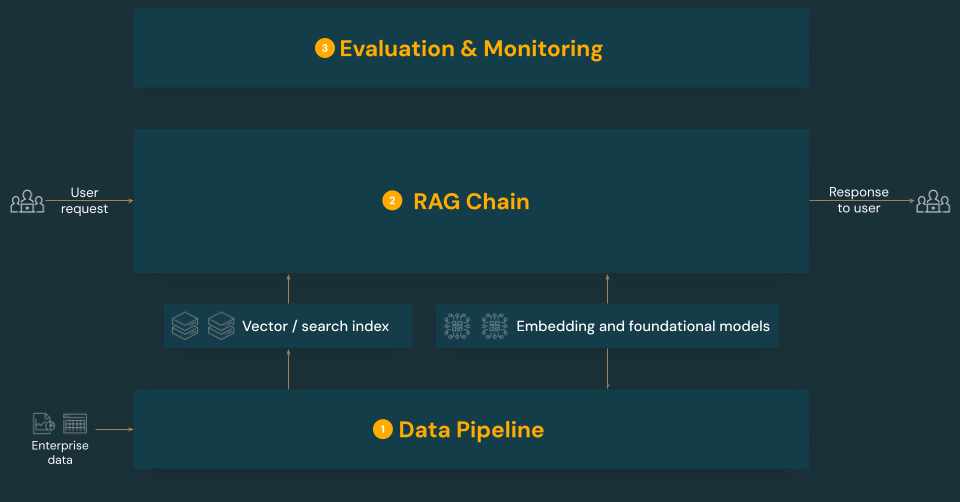
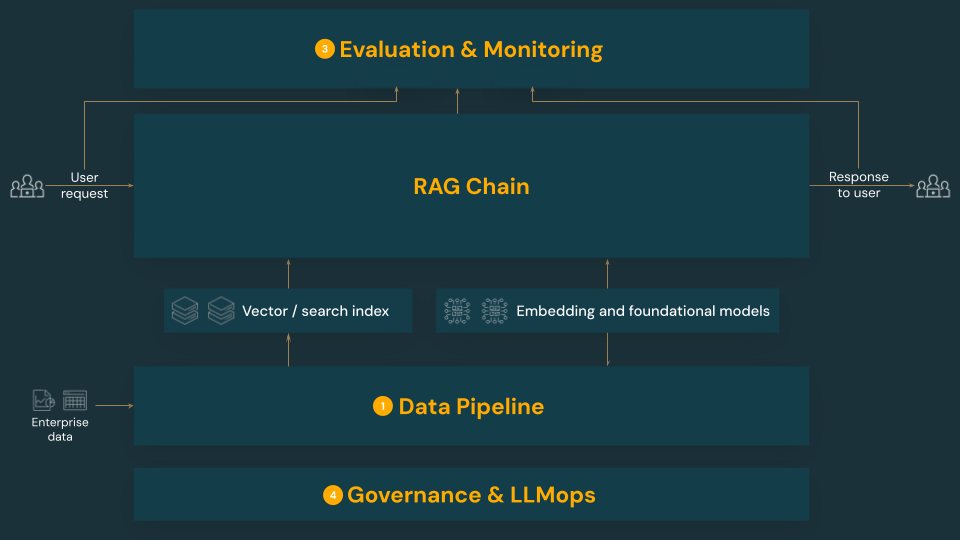
eric section 1 and 2

diff --git a/genai_cookbook/nbs/2-fundamentals-unstructured.md b/genai_cookbook/nbs/2-fundamentals-unstructured.md
@@ -1,93 +1,20 @@
-# Section 2: Fundamentals of RAG over unstructured documents
+# **Section 2:** Fundamentals of RAG over unstructured documents
 
 In [section 1](1-introduction-to-rag) of this guide, we introduced RAG, explained its functionality at a high level, and highlighted its advantages over standalone LLMs.
 
 This section will introduce the key components and principles behind developing RAG applications over unstructured data. In particular, we will discuss:
 
-1. **[Data pipeline](#data-pipeline):** Transforming unstructured documents, such as collections of PDFs, into a format suitable for retrieval using the RAG application's **data pipeline**.
-2. [**Retrieval, Augmentation, and Generation (RAG chain)**](#retrieval-augmentation-and-generation-rag-chain): A series (or **chain**) of steps is called to:
+1. **[Data pipeline](./2-fundamentals-unstructured-data-pipeline):** Transforming unstructured documents, such as collections of PDFs, into a format suitable for retrieval using the RAG application's **data pipeline**.
+2. [**Retrieval, Augmentation, and Generation (RAG chain)**](./2-fundamentals-unstructured-rag): A series (or **chain**) of steps is called to:
     1. Understand the user's question
     2. Retrieve the supporting data
     3. Call an LLM to generate a response based on the user's question and supporting data
-3. [**Evaluation**](#evaluation-monitoring): Assessing the RAG application to determine its quality/cost/latency to ensure it meets your business requirements
+3. [**Evaluation**](./2-fundamentals-unstructured-eval): Assessing the RAG application to determine its quality/cost/latency to ensure it meets your business requirements
+4. [**Governance & LLMOps**](./2-fundamentals-unstructured-llmops): Tracking and managing the lifecycle of each component, including data lineage and governance (access controls).
 
 ```{image} ../images/2-fundamentals-unstructured/1_img.png
 :alt: Major components of RAG over unstructured data
 :align: center
 ```
-
-## Data pipeline
-
-Throughout this guide we will focus on preparing unstructured data for use in RAG applications. *Unstructured* data refers to data without a specific structure or organization, such as PDF documents that might include text and images, or multimedia content such as audio or videos.
-
-Unstructured data lacks a predefined data model or schema, making it impossible to query on the basis of structure and metadata alone. As a result, unstructured data requires techniques that can understand and extract semantic meaning from raw text, images, audio, or other content.
-
-During data preparation, the RAG application's data pipeline takes raw unstructured data and transforms it into discrete chunks that can be queried based on their relevance to a user's query. The key steps in data preprocessing are outlined below. Each step has a variety of knobs that can be tuned - for a deeper dive discussion on these knobs, please refer to the [deep dive into RAG section.](/nbs/3-deep-dive)
-
-In the remainder of this section, we describe the process of preparing unstructured data for retrieval using *semantic search*. Semantic search understands the contextual meaning and intent of a user query to provide more relevant search results.
-
-Semantic search is one of several approaches that can be taken when implementing the retrieval component of a RAG application over unstructured data. We cover alternate retrieval strategies in the [retrieval deep dive section](/nbs/3-deep-dive).
-
-```{image} ../images/2-fundamentals-unstructured/2_img.png
-:align: center
-```
-
-The following are the typical steps of a data pipeline in a RAG application using unstructured data:
-
-1. **Parse the raw documents:** The initial step involves transforming raw data into a usable format. This can include extracting text, tables, and images from a collection of PDFs or employing optical character recognition (OCR) techniques to extract text from images.
-
-2. **Extract document metadata (optional):** In some cases, extracting and using document metadata, such as document titles, page numbers, URLs, or other information can help the retrieval step more precisely query the correct data.
-
-3. **Chunk documents:** To ensure the parsed documents can fit into the embedding model and the LLM's context window, we break the parsed documents into smaller, discrete chunks. Retrieving these focused chunks, rather than entire documents, gives the LLM more targeted content from which to generate its responses.
-
-4. **Embedding chunks:** In a RAG application that uses semantic search, a special type of language model called an *embedding model* transforms each of the chunks from the previous step into numeric vectors, or lists of numbers, that encapsulate the meaning of each piece of content. Crucially, these vectors represent the semantic meaning of the text, not just surface-level keywords. This will later enable searching based on meaning rather than literal text matches.
-
-5. **Index chunks in a vector database:** The final step is to load the vector representations of the chunks, along with the chunk's text, into a *vector database*. A vector database is a specialized type of database designed to efficiently store and search for vector data like embeddings. To maintain performance with a large number of chunks, vector databases commonly include a vector index that uses various algorithms to organize and map the vector embeddings in a way that optimizes search efficiency. At query time, a user's request is embedded into a vector, and the database leverages the vector index to find the most similar chunk vectors, returning the corresponding original text chunks.
-
-The process of computing similarity can be computationally expensive. Vector indexes, such as [Databricks Vector Search](https://docs.databricks.com/en/generative-ai/vector-search.html), speed this process up by providing a mechanism for efﬁciently organizing and navigating embeddings, often via sophisticated approximation methods. This enables rapid ranking of the most relevant results without comparing each embedding to the user's query individually.
-
-Each step in the data pipeline involves engineering decisions that impact the RAG application's quality. For example, choosing the right chunk size in step (3) ensures the LLM receives specific yet contextualized information, while selecting an appropriate embedding model in step (4) determines the accuracy of the chunks returned during retrieval.
-
-This data preparation process is referred to as *offline* data preparation, as it occurs before the system answers queries, unlike the *online* steps triggered when a user submits a query.
-
-## Retrieval, augmentation, and generation (RAG Chain)
-
-Once the data has been processed by the data pipeline, it is suitable for use in the RAG application. This section describes the process that occurs once the user submits a request to the RAG application in an online setting. The series, or *chain* of steps that are invoked at inference time is commonly referred to as the RAG chain.
-
-```{image} ../images/2-fundamentals-unstructured/3_img.png
-:align: center
-```
-
-1. **(Optional) User query preprocessing:** In some cases, the user's query is preprocessed to make it more suitable for querying the vector database. This can involve formatting the query within a template, using another model to rewrite the request, or extracting keywords to aid retrieval. The output of this step is a *retrieval query* which will be used in the subsequent retrieval step.
-
-2. **Retrieval:** To retrieve supporting information from the vector database, the retrieval query is translated into an embedding using *the same embedding model* that was used to embed the document chunks during data preparation. These embeddings enable comparison of the semantic similarity between the retrieval query and the unstructured text chunks, using measures like cosine similarity. Next, chunks are retrieved from the vector database and ranked based on how similar they are to the embedded request. The top (most similar) results are returned.
-
-3. **Prompt augmentation:** The prompt that will be sent to the LLM is formed by augmenting the user's query with the retrieved context, in a template that instructs the model how to use each component, often with additional instructions to control the response format. The process of iterating on the right prompt template to use is referred to as [prompt engineering](https://en.wikipedia.org/wiki/Prompt_engineering).
-
-4. **LLM Generation**: The LLM takes the augmented prompt, which includes the user's query and retrieved supporting data, as input. It then generates a response that is grounded on the additional context.
-
-5. **(Optional) Post-processing:** The LLM's response may be processed further to apply additional business logic, add citations, or otherwise refine the generated text based on predefined rules or constraints.
-
-As with the RAG application data pipeline, there are numerous consequential engineering decisions that can affect the quality of the RAG chain. For example, determining how many chunks to retrieve in (2) and how to combine them with the user's query in (3) can both significantly impact the model's ability to generate quality responses.
-
-Throughout the chain, various guardrails may be applied to ensure compliance with enterprise policies. This might involve filtering for appropriate requests, checking user permissions before accessing data sources, and applying content moderation techniques to the generated responses.
-
-## Evaluation & monitoring
-
-Evaluation and monitoring are critical components to understand if your RAG application is performing to the quality, cost, and latency requirements dictated by your use case. Evaluation happens during development and monitoring happens once the application is deployed to production.
-
-RAG over unstructured data is a complex system with many components that impact the application's quality. Adjusting any single element can have cascading effects on the others. For instance, data formatting changes can influence the retrieved chunks and the LLM's ability to generate relevant responses. Therefore, it's crucial to evaluate each of the application's components in addition to the application as a whole in order to iteratively refine it based on those assessments.
-
-Evaluation and monitoring the quality, cost and latency requires several components:
-
-- **Defining quality with metrics**: You can't manage what you don't measure. In order to improve RAG quality, it is essential to define what quality means for your use case. Depending on the application, important metrics might include response accuracy, latency, cost, or ratings from key stakeholders.
-
-- **Building an effective evaluation set:** To rigorously evaluate your RAG application, you need a curated set of evaluation queries (and ideally outputs) that are representative of the application's intended use. These evaluation examples should be challenging, diverse, and updated to reflect changing usage and requirements.
-
-- **Monitoring application usage:** Instrumentation that tracks inputs, outputs, and intermediate steps such as document retrieval enables ongoing monitoring and early detection and diagnosis of issues that arise in development and production.
-
-- **Collecting stakeholder feedback:** As a developer, you may not be a domain expert in the content of the application you are developing. In order to collect feedback from human experts who can assess your application quality, you need an interface that allows them to interact with the application and provide detailed feedback.
-
-We will cover evaluation in much more detail in [Section 4: Evaluation](/nbs/4-evaluation).
 
 The [next section](/nbs/3-deep-dive) of this guide will unpack the finer details of the typical components that make up the data pipeline and RAG chain of a RAG application using unstructured data.

diff --git a/genai_cookbook/nbs/2-fundamentals-unstructured-eval.md b/genai_cookbook/nbs/2-fundamentals-unstructured-eval.md
@@ -1,0 +1,33 @@
+## Evaluation & monitoring
+
+Evaluation and monitoring are critical components to understand if your RAG application is performing to the *quality*, *cost*, and *latency* requirements dictated by your use case.  Technically, **evaluation** happens during development and **monitoring** happens once the application is deployed to production, but the fundamental components are similar.
+
+RAG over unstructured data is a complex system with many components that impact the application's quality. Adjusting any single element can have cascading effects on the others. For instance, data formatting changes can influence the retrieved chunks and the LLM's ability to generate relevant responses. Therefore, it's crucial to evaluate each of the application's components in addition to the application as a whole in order to iteratively refine it based on those assessments.
+
+Evaluation and monitoring of Generative AI applications, including RAG, differs from classical machine learning in several ways:
+  
+|  | Classical ML | Generative AI | 
+|---------|---------|---------|
+| **Metrics** | Metrics evaluate the __inputs & outputs__ of the component e.g., feature drift, precision/recall, latency, etc <br/><br/> Since there is only one component, overall metrics == component metrics. | __Component metrics__ evaluate the __inputs & outputs__ of each component e.g., precision @ K, nDCG, latency, toxicity, etc <br/><br/>__Compound metrics__ evaluate how multiple components interact e.g., faithfulness measures the generator’s adherence to the knowledge from a retriever which requires the chain input, chain output, and output of the internal retriever<br/><br/>__Overall metrics__ evaluate the overall input & output of the system e.g., answer correctness, latency |
+| **Evaluation** | Answer is __deterministically__ “right” or “wrong” <br/><br/> → __Deterministic metrics__ work | Answer is “right” or “wrong” but: <br/><ul><li>Many right answers (non deterministic)</li><li>Some right answers are more right</li></ul><br/>→ Need __human feedback__ to be confident<br/>→ Need __LLM-judged metrics__ to scale evaluation<br/> |
+
+```{image} ../images/2-fundamentals-unstructured/4_img.png
+:align: center
+```
+<br/>
+
+Effectively evaluating and monitoring application quality, cost and latency requires several components:
+
+- **Evaluation set:** To rigorously evaluate your RAG application, you need a curated set of evaluation queries (and ideally outputs) that are representative of the application's intended use. These evaluation examples should be challenging, diverse, and updated to reflect changing usage and requirements.
+
+- **Metric definitions**: You can't manage what you don't measure. In order to improve RAG quality, it is essential to define what quality means for your use case. Depending on the application, important metrics might include response accuracy, latency, cost, or ratings from key stakeholders.  You'll need metrics that measure each component, how the components interact with each other, and the overall system.
+
+- **LLM judges**: Given the open ended nature of LLM responses, it is not feasible to read every single response each time you evaluate to determine if the output is correct.  Using an additional, different LLM to review outputs can help scale your evaluation and compute additional metrics such as the groundedness of a response to 1,000s of tokens of context, that would be infeasible for human raters to effectively asses at scale.
+
+- **Evaluation harness**: During development, an evaluation harness helps you quickly execute your application for every record in your *evaluation set* and then run each output through your LLM judges and metric computations.  This is particularly challenging since this step "blocks" your inner dev loop, so speed is of the utmost importance.  A good evaluation harness will parallelize this work as much as possible, often spinning up additional infrastructure such as more LLM capacity to do so.
+
+- **Stakeholder-facing UI:** As a developer, you may not be a domain expert in the content of the application you are developing. In order to collect feedback from human experts who can assess your application quality, you need an interface that allows them to interact with the application and provide detailed feedback.
+
+- **Production trace logging:** Once in production, you'll need to evaluate a significantly higher quantity of requests/responses in addition to how each response was generated.  For example, you will need to  know if the root cause of a low quality answer is due to the retrieval step or a hallucination. Your production logging must track the inputs, outputs, and intermediate steps such as document retrieval to enable ongoing monitoring and early detection and diagnosis of issues that arise in production.
+
+We will cover evaluation in much more detail in [Section 4: Evaluation](/nbs/4-evaluation).

diff --git a/genai_cookbook/nbs/2-fundamentals-unstructured-data-pipeline.md b/genai_cookbook/nbs/2-fundamentals-unstructured-data-pipeline.md
@@ -1,0 +1,34 @@
+## Data pipeline
+
+Throughout this guide we will focus on preparing unstructured data for use in RAG applications. *Unstructured* data refers to data without a specific structure or organization, such as PDF documents that might include text and images, or multimedia content such as audio or videos.
+
+Unstructured data lacks a predefined data model or schema, making it impossible to query on the basis of structure and metadata alone. As a result, unstructured data requires techniques that can understand and extract semantic meaning from raw text, images, audio, or other content.
+
+During data preparation, the RAG application's data pipeline takes raw unstructured data and transforms it into discrete chunks that can be queried based on their relevance to a user's query. The key steps in data preprocessing are outlined below. Each step has a variety of knobs that can be tuned - for a deeper dive discussion on these knobs, please refer to the [deep dive into RAG section.](/nbs/3-deep-dive)
+
+In the remainder of this section, we describe the process of preparing unstructured data for retrieval using *semantic search*. Semantic search understands the contextual meaning and intent of a user query to provide more relevant search results.
+
+Semantic search is one of several approaches that can be taken when implementing the retrieval component of a RAG application over unstructured data. We cover alternate retrieval strategies in the [retrieval deep dive section](/nbs/3-deep-dive).
+
+```{image} ../images/2-fundamentals-unstructured/2_img.png
+:align: center
+```
+
+<br/>
+The following are the typical steps of a data pipeline in a RAG application using unstructured data:
+
+1. **Parse the raw documents:** The initial step involves transforming raw data into a usable format. This can include extracting text, tables, and images from a collection of PDFs or employing optical character recognition (OCR) techniques to extract text from images.
+
+2. **Extract document metadata (optional):** In some cases, extracting and using document metadata, such as document titles, page numbers, URLs, or other information can help the retrieval step more precisely query the correct data.
+
+3. **Chunk documents:** To ensure the parsed documents can fit into the embedding model and the LLM's context window, we break the parsed documents into smaller, discrete chunks. Retrieving these focused chunks, rather than entire documents, gives the LLM more targeted content from which to generate its responses.
+
+4. **Embedding chunks:** In a RAG application that uses semantic search, a special type of language model called an *embedding model* transforms each of the chunks from the previous step into numeric vectors, or lists of numbers, that encapsulate the meaning of each piece of content. Crucially, these vectors represent the semantic meaning of the text, not just surface-level keywords. This will later enable searching based on meaning rather than literal text matches.
+
+5. **Index chunks in a vector database:** The final step is to load the vector representations of the chunks, along with the chunk's text, into a *vector database*. A vector database is a specialized type of database designed to efficiently store and search for vector data like embeddings. To maintain performance with a large number of chunks, vector databases commonly include a vector index that uses various algorithms to organize and map the vector embeddings in a way that optimizes search efficiency. At query time, a user's request is embedded into a vector, and the database leverages the vector index to find the most similar chunk vectors, returning the corresponding original text chunks.
+
+The process of computing similarity can be computationally expensive. Vector indexes, such as [Databricks Vector Search](https://docs.databricks.com/en/generative-ai/vector-search.html), speed this process up by providing a mechanism for efﬁciently organizing and navigating embeddings, often via sophisticated approximation methods. This enables rapid ranking of the most relevant results without comparing each embedding to the user's query individually.
+
+Each step in the data pipeline involves engineering decisions that impact the RAG application's quality. For example, choosing the right chunk size in step (3) ensures the LLM receives specific yet contextualized information, while selecting an appropriate embedding model in step (4) determines the accuracy of the chunks returned during retrieval.
+
+This data preparation process is referred to as *offline* data preparation, as it occurs before the system answers queries, unlike the *online* steps triggered when a user submits a query.

diff --git a/genai_cookbook/nbs/3-deep-dive.md b/genai_cookbook/nbs/3-deep-dive.md
@@ -1,4 +1,4 @@
-# Section 3: Deep dive into RAG over unstructured documents
+# **Section 3:** Deep dive into RAG over unstructured documents
 
 In the previous section, we introduced the key components of a RAG application and discussed the fundamental principles behind developing RAG applications over unstructured data. This section discusses how you can think about refining each component in order to increase the quality of your application.
 
@@ -199,10 +199,9 @@ The following table contrasts each of these retrieval strategies against one ano
 | | Semantic search | Keyword search | Hybrid search |
 |---|---|---|---|
 | **Simple explanation** | If the same **concepts** appear in the query and a potential document, they are relevant. | If the same **words** appear in the query and a potential document, they are relevant. The **more words** from the query in the document, the more relevant that document is. | Runs BOTH a semantic search and keyword search, then combines the results. |
-| **Example** | If the user searches for "RAG", a document referring to "retrieval-augmented generation" would be returned even if the document does NOT have the words "RAG" in it. | If the user searches for "RAG", a document referring to "retrieval-augmented generation" would be NOT returned UNLESS the document HAS the words "RAG" in it. | Both documents would be returned. |
+| **Example use case** | Customer support where user queries are different than the words in the product manuals<br><br>e.g., *"how do i turn my phone on?"* and the manual section is called *"toggling the power"*. | Customer support where queries contain specific, non descriptive technical terms.<br><br>e.g., *"what does model HD7-8D do?"* | Customer support queries that combined both semantic and technical terms.<br><br>e.g., *"how do I turn on my HD7-8D?"* |
 | **Technical approaches** | Uses embeddings to represent text in a continuous vector space, enabling semantic search | Relies on discrete token-based methods like [bag-of-words](https://en.wikipedia.org/wiki/Bag-of-words_model), [TF-IDF](https://en.wikipedia.org/wiki/Tf%E2%80%93idf), [BM25](https://en.wikipedia.org/wiki/Okapi_BM25) for keyword matching. | Use a re-ranking approach to combine the results, such as [reciprocal rank fusion](https://www.elastic.co/guide/en/elasticsearch/reference/current/rrf.html) or a [re-ranking model](https://en.wikipedia.org/wiki/Learning_to_rank). |
 | **Strengths** | Retrieving contextually similar information to a query, even if the exact words are not used. | Scenarios requiring precise keyword matches, ideal for specific term-focused queries such as product names. | Combines the best of both approaches. |
-| **Example use case** | Customer support where user queries are different than the words in the product manuals<br><br>e.g., *"how do i turn my phone on?"* and the manual section is called *"toggling the power"*. | Customer support where queries contain specific, non descriptive technical terms.<br><br>e.g., *"what does model HD7-8D do?"* | Customer support queries that combined both semantic and technical terms.<br><br>e.g., *"how do I turn on my HD7-8D?"* |
 
 In addition to these core retrieval strategies, there are several techniques you can apply to further enhance the retrieval process:
 

diff --git a/genai_cookbook/nbs/2-fundamentals-unstructured-rag.md b/genai_cookbook/nbs/2-fundamentals-unstructured-rag.md
@@ -1,0 +1,22 @@
+## Retrieval, augmentation, and generation (RAG Chain)
+
+Once the data has been processed by the data pipeline, it is suitable for use in the RAG application. This section describes the process that occurs once the user submits a request to the RAG application in an online setting. The series, or *chain* of steps that are invoked at inference time is commonly referred to as the RAG chain.
+
+```{image} ../images/2-fundamentals-unstructured/3_img.png
+:align: center
+```
+<br/>
+
+1. **(Optional) User query preprocessing:** In some cases, the user's query is preprocessed to make it more suitable for querying the vector database. This can involve formatting the query within a template, using another model to rewrite the request, or extracting keywords to aid retrieval. The output of this step is a *retrieval query* which will be used in the subsequent retrieval step.
+
+2. **Retrieval:** To retrieve supporting information from the vector database, the retrieval query is translated into an embedding using *the same embedding model* that was used to embed the document chunks during data preparation. These embeddings enable comparison of the semantic similarity between the retrieval query and the unstructured text chunks, using measures like cosine similarity. Next, chunks are retrieved from the vector database and ranked based on how similar they are to the embedded request. The top (most similar) results are returned.
+
+3. **Prompt augmentation:** The prompt that will be sent to the LLM is formed by augmenting the user's query with the retrieved context, in a template that instructs the model how to use each component, often with additional instructions to control the response format. The process of iterating on the right prompt template to use is referred to as [prompt engineering](https://en.wikipedia.org/wiki/Prompt_engineering).
+
+4. **LLM Generation**: The LLM takes the augmented prompt, which includes the user's query and retrieved supporting data, as input. It then generates a response that is grounded on the additional context.
+
+5. **(Optional) Post-processing:** The LLM's response may be processed further to apply additional business logic, add citations, or otherwise refine the generated text based on predefined rules or constraints.
+
+As with the RAG application data pipeline, there are numerous consequential engineering decisions that can affect the quality of the RAG chain. For example, determining how many chunks to retrieve in (2) and how to combine them with the user's query in (3) can both significantly impact the model's ability to generate quality responses.
+
+Throughout the chain, various guardrails may be applied to ensure compliance with enterprise policies. This might involve filtering for appropriate requests, checking user permissions before accessing data sources, and applying content moderation techniques to the generated responses.

diff --git a/genai_cookbook/nbs/2-fundamentals-unstructured-llmops.md b/genai_cookbook/nbs/2-fundamentals-unstructured-llmops.md
@@ -1,0 +1,14 @@
+## Governance and LLMops
+
+
+### Governance
+
+Governance is required to ensure your enterprise data and AI assets are secured with the proper access controls and logging.  For more information on AI governance, please refer to the [AI Governance](https://www.databricks.com/product/machine-learning/lakehouse-ai-governance).
+
+### LLMops
+LLMOps, and more broadly MLOps, is the set of processes and automation for for managing data, code and models to improve performance, stability and long-term efficiency of AI systems.  For more information about LLMops, please refer to the [Big Book of MLops](https://www.databricks.com/blog/big-book-mlops-updated-generative-ai).
+
+
+```{image} ../images/2-fundamentals-unstructured/5_img.png
+:align: center
+```

diff --git a/genai_cookbook/nbs/5-hands-on.md b/genai_cookbook/nbs/5-hands-on.md
@@ -1,4 +1,4 @@
-# Section 5: Hands-on guide to implementing high-quality RAG
+# **Section 5:** Hands-on guide to implementing high-quality RAG
 
 This section walks you through Databricks recommended development workflow for building, testing, and deploying a high-quality RAG application: **evaluation-driven development**. This workflow is based on the Mosaic Research team's best practices for building and evaluating high quality RAG applications. If quality is important to your business, Databricks recommends following an evaluation-driven workflow:
 

diff --git a/genai_cookbook/nbs/4-evaluation.md b/genai_cookbook/nbs/4-evaluation.md
@@ -1,4 +1,4 @@
-# Section 4: Evaluation
+# **Section 4:** Evaluation
 
 The old saying "you can't manage what you can't measure" is incredibly relevant (no pun intended) in the context of any generative AI application, RAG included. In order for your generative AI application to deliver high quality, accurate responses, you **must** be able to define and measure what "quality" means for your use case.
 

diff --git a/genai_cookbook/nbs/1-introduction-to-rag.md b/genai_cookbook/nbs/1-introduction-to-rag.md
@@ -1,4 +1,4 @@
-# Section 1: Introduction to retrieval-augmented generation (RAG)
+# **Section 1:** Introduction to retrieval-augmented generation (RAG)
 
 This section provides an overview of Retrieval-augmented generation (RAG): what it is, how it works, and key concepts.
 
